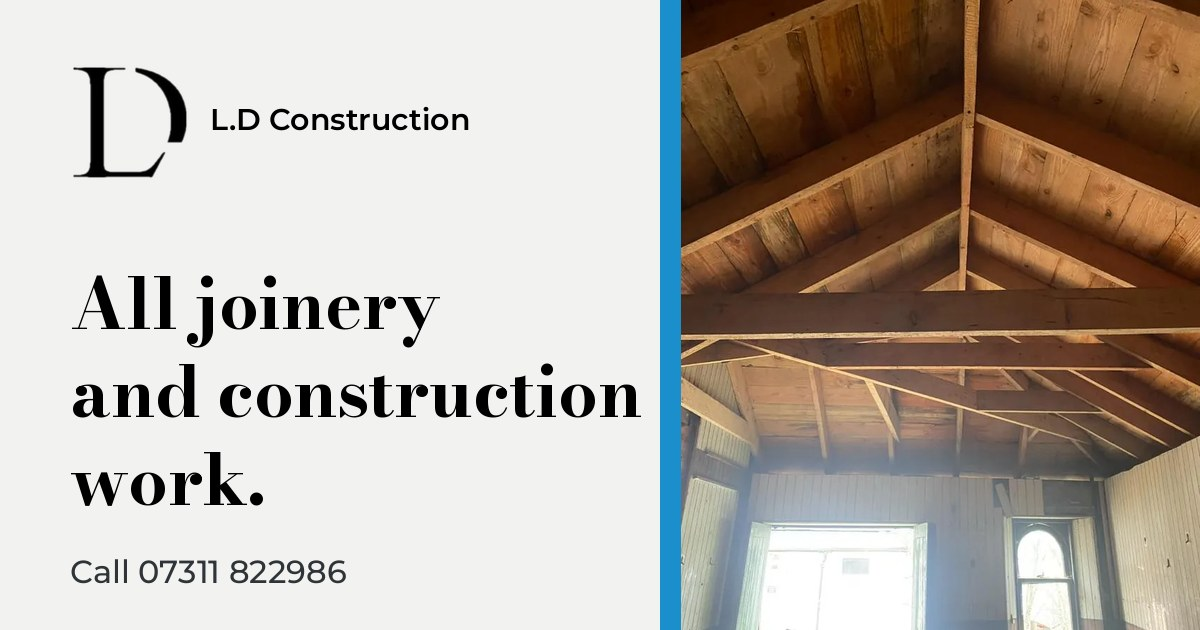
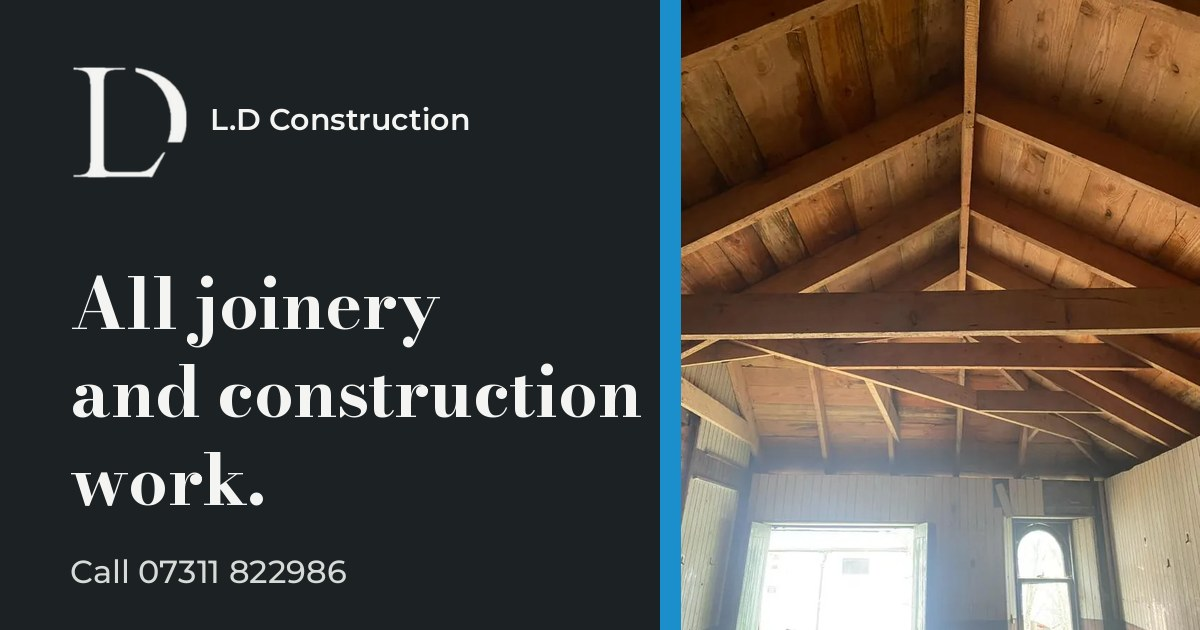
darker

diff --git a/index.html b/index.html
@@ -6,6 +6,7 @@
 <title>L.D Construction | Joinery and construction work</title>
 <meta name="description" content="L.D Construction: joinery and construction work including loft conversions, roofing, oak work, fencing, flooring and excavation. Call 07311 822986.">
 <meta name="robots" content="index, follow">
+<!-- TODO: set the real domain once agreed (canonical, og:url, og:image, sitemap.xml, robots.txt, CNAME) -->
 <link rel="canonical" href="https://ldconstruction.trade/">
 <meta property="og:type" content="website">
 <meta property="og:title" content="L.D Construction | Joinery and construction work">
@@ -14,7 +15,7 @@
 <meta property="og:image" content="https://ldconstruction.trade/assets/og-image.jpg">
 <meta property="og:locale" content="en_GB">
 <meta name="twitter:card" content="summary_large_image">
-<meta name="theme-color" content="#F2F3F0">
+<meta name="theme-color" content="#1C2124">
 <link rel="icon" href="assets/favicon.png" type="image/png">
 <link rel="apple-touch-icon" href="assets/apple-touch-icon.png">
 <link rel="preload" href="assets/fonts/bodoni-moda.woff2" as="font" type="font/woff2" crossorigin>
@@ -29,14 +30,15 @@
 @font-face{font-family:"Montserrat";src:url(assets/fonts/montserrat.woff2) format("woff2");font-weight:100 900;font-style:normal;font-display:swap}
 
 :root{
-  /* palette, taken from the work itself */
-  --chalk:#F2F3F0;      /* plasterboard */
-  --ink:#000;           /* the logo */
-  --slate:#2F3438;      /* roof slate: body text and the dark band */
-  --mute:#5A6267;
-  --line:#CBD0CC;
-  --level:#1B8FCC;      /* the blue spirit level that turns up in the photos */
-  --level-d:#0E6AA0;
+  /* palette, taken from the work itself: roof slate, plasterboard, the blue spirit level */
+  --bg:#1C2124;         /* deep roof slate */
+  --panel:#272D31;      /* lifted slate: photo wells, contact band */
+  --head:#F4F5F2;       /* plasterboard white: headings, buttons */
+  --body:#D6DBD7;       /* body copy */
+  --mute:#A6AFAA;       /* secondary copy */
+  --line:#3C454A;
+  --level:#1B8FCC;      /* the blue spirit level in the photos */
+  --level-d:#6CC1F2;    /* same blue, lightened for text on dark */
   --display:"Bodoni Moda","Didot","Bodoni 72",Georgia,serif;
   --text:"Montserrat",system-ui,-apple-system,"Segoe UI",Roboto,sans-serif;
   --wrap:1180px;
@@ -46,37 +48,37 @@
 }
 *,*::before,*::after{box-sizing:inherit}
 html{scroll-behavior:smooth;scroll-padding-top:1rem;-webkit-text-size-adjust:100%}
-body{margin:0;background:var(--chalk);color:var(--slate);font:400 1.0625rem/1.65 var(--text);-webkit-font-smoothing:antialiased}
+body{margin:0;background:var(--bg);color:var(--body);color-scheme:dark;font:400 1.0625rem/1.65 var(--text);-webkit-font-smoothing:antialiased}
 img{display:block;max-width:100%;height:auto}
 a{color:inherit}
-h1,h2,h3{margin:0;color:var(--ink);font-family:var(--display);font-weight:700;letter-spacing:-.015em;text-wrap:balance;font-optical-sizing:none;font-variation-settings:"opsz" 30}
+h1,h2,h3{margin:0;color:var(--head);font-family:var(--display);font-weight:700;letter-spacing:-.015em;text-wrap:balance;font-optical-sizing:none;font-variation-settings:"opsz" 30}
 p{margin:0}
 :focus-visible{outline:3px solid var(--level);outline-offset:3px}
 .wrap{width:min(100% - 2.5rem,var(--wrap));margin-inline:auto}
-.skip{position:absolute;left:-999px;top:0;background:var(--ink);color:var(--chalk);padding:.75rem 1rem;z-index:100}
+.skip{position:absolute;left:-999px;top:0;background:var(--head);color:var(--bg);padding:.75rem 1rem;z-index:100}
 .skip:focus{left:0}
 
 /* logo mark: the client's own LD monogram, recoloured with a mask */
 .mark{display:inline-block;aspect-ratio:1;background:currentColor;-webkit-mask:url(assets/logo-mark.png) center/contain no-repeat;mask:url(assets/logo-mark.png) center/contain no-repeat}
 
 /* buttons */
-.btn{display:inline-flex;align-items:center;justify-content:center;gap:.6rem;min-height:3.25rem;padding:.8rem 1.6rem;border:2px solid var(--ink);border-radius:2px;font:600 1rem/1.2 var(--text);text-decoration:none;cursor:pointer;background:transparent;color:var(--ink)}
-.btn--solid{background:var(--ink);color:var(--chalk)}
-.btn--solid:hover{background:var(--slate);border-color:var(--slate)}
-.btn--line:hover{background:var(--ink);color:var(--chalk)}
+.btn{display:inline-flex;align-items:center;justify-content:center;gap:.6rem;min-height:3.25rem;padding:.8rem 1.6rem;border:2px solid var(--head);border-radius:2px;font:600 1rem/1.2 var(--text);text-decoration:none;cursor:pointer;background:transparent;color:var(--head)}
+.btn--solid{background:var(--head);color:var(--bg)}
+.btn--solid:hover{background:#fff;border-color:#fff}
+.btn--line:hover{background:var(--head);color:var(--bg)}
 .btn svg{width:1.15em;height:1.15em;flex:none}
 
 /* header */
 .top{display:flex;align-items:center;justify-content:space-between;gap:1rem;padding-block:1.1rem}
-.brand{display:inline-flex;align-items:center;gap:.8rem;text-decoration:none;color:var(--ink);font:600 1rem/1 var(--text)}
+.brand{display:inline-flex;align-items:center;gap:.8rem;text-decoration:none;color:var(--head);font:600 1rem/1 var(--text)}
 .brand .mark{width:2.6rem}
-.top__call{font:600 1rem var(--text);text-decoration:none;color:var(--ink);border-bottom:2px solid var(--ink);padding-bottom:.15rem;display:none}
+.top__call{font:600 1rem var(--text);text-decoration:none;color:var(--head);border-bottom:2px solid var(--head);padding-bottom:.15rem;display:none}
 .top__call:hover{border-color:var(--level)}
 
 /* hero */
 .hero{display:grid;gap:2.5rem;padding-block:clamp(1.5rem,4vw,3rem) clamp(2rem,4vw,3rem);align-items:center}
 .hero h1{font-size:clamp(3rem,9.2vw,6.4rem);line-height:1.03;letter-spacing:-.02em}
-.lede{margin-top:1.6rem;max-width:34rem;font-size:1.15rem;color:var(--slate)}
+.lede{margin-top:1.6rem;max-width:34rem;font-size:1.15rem;color:var(--body)}
 .cta{display:flex;flex-wrap:wrap;gap:.8rem;margin-top:2rem}
 .hero__photo{margin:0}
 .hero__photo img{width:100%;aspect-ratio:3/4;object-fit:cover}
@@ -108,9 +110,9 @@ p{margin:0}
 .job{display:grid;gap:1.4rem;padding-block:2.6rem;border-top:1px solid var(--line)}
 .job h3{font-size:clamp(1.7rem,3.2vw,2.3rem);line-height:1.08}
 .job__text p{margin-top:.8rem;max-width:30rem}
-.more{margin-top:1.2rem;padding:0 0 .15rem;border:0;border-bottom:2px solid var(--ink);background:none;font:600 .95rem var(--text);color:var(--ink);cursor:pointer}
+.more{margin-top:1.2rem;padding:0 0 .15rem;border:0;border-bottom:2px solid var(--head);background:none;font:600 .95rem var(--text);color:var(--head);cursor:pointer}
 .more:hover{border-color:var(--level)}
-.tile,.card{display:block;width:100%;padding:0;border:0;background:#d5d9d4;cursor:zoom-in;overflow:hidden}
+.tile,.card{display:block;width:100%;padding:0;border:0;background:var(--panel);cursor:zoom-in;overflow:hidden}
 .tile img,.card img{width:100%;height:100%;aspect-ratio:3/4;object-fit:cover}
 .job__photos{display:grid;gap:.7rem;grid-template-columns:repeat(2,1fr)}
 .job__photos--lead .tile--big{grid-column:1/-1}
@@ -122,46 +124,42 @@ p{margin:0}
 .stages{list-style:none;margin:0;padding:0;display:grid;grid-auto-flow:column;grid-auto-columns:72%;gap:.8rem;overflow-x:auto;scroll-snap-type:x mandatory;padding-bottom:.6rem}
 .stages li{scroll-snap-align:start;display:flex;flex-direction:column;gap:.35rem}
 .stage__n{font:700 .95rem var(--text);color:var(--level-d)}
-.stage__name{font:700 1.05rem/1.2 var(--text);color:var(--ink);margin-top:.25rem}
+.stage__name{font:700 1.05rem/1.2 var(--text);color:var(--head);margin-top:.25rem}
 .stage__note{font-size:.92rem;color:var(--mute);line-height:1.4}
 
 /* more jobs */
 .cards{list-style:none;margin:0;padding:0;display:grid;gap:2rem .8rem;grid-template-columns:repeat(2,1fr)}
 .cards h3{font:700 1.02rem/1.25 var(--text);letter-spacing:0;margin-top:.8rem}
-.cards p{font-size:.92rem;line-height:1.5;margin-top:.3rem;color:var(--slate)}
+.cards p{font-size:.92rem;line-height:1.5;margin-top:.3rem;color:var(--body)}
 .count{display:block;margin-top:.4rem;font-size:.85rem;color:var(--mute)}
 .card:hover img{filter:brightness(1.06)}
 
 /* services */
 .services{display:grid;gap:2rem}
-.svc{list-style:none;margin:0;padding:0;border-top:2px solid var(--ink)}
-.svc li{display:flex;align-items:baseline;justify-content:space-between;gap:1rem;padding:.9rem 0;border-bottom:1px solid var(--line);font:600 1.15rem var(--text);color:var(--ink)}
+.svc{list-style:none;margin:0;padding:0;border-top:2px solid var(--head)}
+.svc li{display:flex;align-items:baseline;justify-content:space-between;gap:1rem;padding:.9rem 0;border-bottom:1px solid var(--line);font:600 1.15rem var(--text);color:var(--head)}
 .svc a{font:500 .92rem var(--text);color:var(--level-d);text-underline-offset:.2em}
 .note{margin-top:1.4rem;max-width:34rem;color:var(--mute);font-size:.98rem}
 
 /* contact: the only dark band */
-.contact{background:var(--slate);color:var(--chalk);padding-block:clamp(3.5rem,8vw,7rem)}
-.contact h2{color:var(--chalk);font-size:clamp(2.2rem,5vw,3.6rem);line-height:1.02}
-.contact p{margin-top:1rem;max-width:32rem;color:#d7dbd6}
-.phone{display:block;margin-top:1.8rem;font:700 clamp(2.5rem,10vw,6rem)/1.05 var(--display);font-optical-sizing:none;font-variation-settings:"opsz" 30;letter-spacing:-.02em;color:var(--chalk);text-decoration:none}
+.contact{background:var(--panel);color:var(--head);padding-block:clamp(3.5rem,8vw,7rem)}
+.contact h2{color:var(--head);font-size:clamp(2.2rem,5vw,3.6rem);line-height:1.02}
+.contact p{margin-top:1rem;max-width:32rem;color:var(--body)}
+.phone{display:block;margin-top:1.8rem;font:700 clamp(2.5rem,10vw,6rem)/1.05 var(--display);font-optical-sizing:none;font-variation-settings:"opsz" 30;letter-spacing:-.02em;color:var(--head);text-decoration:none}
 .phone:hover{text-decoration:underline;text-decoration-thickness:3px;text-underline-offset:.12em;text-decoration-color:var(--level)}
 .contact .cta{margin-top:2rem}
-.contact .btn{border-color:var(--chalk);color:var(--chalk)}
-.contact .btn--solid{background:var(--chalk);color:var(--ink)}
-.contact .btn--solid:hover{background:#fff;border-color:#fff}
-.contact .btn--line:hover{background:var(--chalk);color:var(--ink)}
 
-.foot{background:var(--chalk);padding-block:2rem 6.5rem;font-size:.9rem;color:var(--mute)}
+.foot{background:var(--bg);padding-block:2rem 6.5rem;font-size:.9rem;color:var(--mute)}
 .foot .wrap{display:flex;flex-wrap:wrap;align-items:center;justify-content:space-between;gap:1rem}
 .foot .brand{font-size:.95rem}
 .foot .brand .mark{width:2rem}
 
 /* mobile call bar */
-.callbar{position:fixed;left:0;right:0;bottom:0;z-index:20;display:grid;grid-template-columns:1fr 1fr;gap:.6rem;padding:.7rem .9rem calc(.7rem + env(safe-area-inset-bottom,0px));background:var(--chalk);border-top:1px solid var(--line)}
+.callbar{position:fixed;left:0;right:0;bottom:0;z-index:20;display:grid;grid-template-columns:1fr 1fr;gap:.6rem;padding:.7rem .9rem calc(.7rem + env(safe-area-inset-bottom,0px));background:var(--bg);border-top:1px solid var(--line)}
 .callbar .btn{min-height:3rem;padding:.6rem 1rem}
 
 /* lightbox */
-dialog.lb{border:0;padding:0;background:transparent;max-width:none;max-height:none;width:100%;height:100%;color:var(--chalk)}
+dialog.lb{border:0;padding:0;background:transparent;max-width:none;max-height:none;width:100%;height:100%;color:var(--head)}
 dialog.lb::backdrop{background:rgba(20,23,25,.985)}
 .lb__in{position:relative;height:100%;display:grid;grid-template-rows:1fr auto;padding:3.5rem .8rem 1rem}
 .lb__stage{min-height:0;display:grid;place-items:center}
@@ -170,7 +168,7 @@ dialog.lb::backdrop{background:rgba(20,23,25,.985)}
 .lb__cap{font-size:.98rem;line-height:1.45}
 .lb__cap b{display:block;font-family:var(--display);font-size:1.25rem;margin-bottom:.15rem}
 .lb__count{white-space:nowrap;font-size:.9rem;color:#c3c9c4}
-.lb button{font:600 1rem var(--text);color:var(--chalk);background:rgba(255,255,255,.12);border:1px solid rgba(255,255,255,.35);border-radius:2px;cursor:pointer;min-width:3rem;min-height:3rem}
+.lb button{font:600 1rem var(--text);color:var(--head);background:rgba(255,255,255,.12);border:1px solid rgba(255,255,255,.35);border-radius:2px;cursor:pointer;min-width:3rem;min-height:3rem}
 .lb button:hover{background:rgba(255,255,255,.24)}
 .lb__x{position:absolute;top:.7rem;right:.8rem}
 .lb__prev,.lb__next{position:absolute;top:50%;margin-top:-1.5rem;font-size:1.4rem!important}

diff --git a/404.html b/404.html
@@ -9,10 +9,10 @@
 <style>
 @font-face{font-family:"Bodoni Moda";src:url(/assets/fonts/bodoni-moda.woff2) format("woff2");font-weight:400 900;font-display:swap}
 @font-face{font-family:"Montserrat";src:url(/assets/fonts/montserrat.woff2) format("woff2");font-weight:100 900;font-display:swap}
-body{margin:0;min-height:100vh;display:grid;place-items:center;background:#F2F3F0;color:#2F3438;font:400 1.0625rem/1.65 "Montserrat",system-ui,sans-serif;padding:1.5rem}
+body{margin:0;min-height:100vh;display:grid;place-items:center;background:#1C2124;color:#D6DBD7;color-scheme:dark;font:400 1.0625rem/1.65 "Montserrat",system-ui,sans-serif;padding:1.5rem}
 main{max-width:30rem}
-h1{margin:0 0 .8rem;font:700 clamp(2.4rem,8vw,4rem)/1.05 "Bodoni Moda",Georgia,serif;font-optical-sizing:none;font-variation-settings:"opsz" 30;color:#000}
-a.btn{display:inline-block;margin-top:1.4rem;padding:.85rem 1.6rem;background:#000;color:#F2F3F0;font-weight:600;text-decoration:none;border-radius:2px}
+h1{margin:0 0 .8rem;font:700 clamp(2.4rem,8vw,4rem)/1.05 "Bodoni Moda",Georgia,serif;font-optical-sizing:none;font-variation-settings:"opsz" 30;color:#F4F5F2}
+a.btn{display:inline-block;margin-top:1.4rem;padding:.85rem 1.6rem;background:#F4F5F2;color:#1C2124;font-weight:600;text-decoration:none;border-radius:2px}
 a.btn:focus-visible{outline:3px solid #1B8FCC;outline-offset:3px}
 p a{color:inherit}
 </style>

diff --git a/CLAUDE.md b/CLAUDE.md
@@ -24,8 +24,8 @@ robots.txt, sitemap.xml, _config.yml, EDITS.md, CLAUDE.md, README.md
 `_config.yml` stops CLAUDE.md, README.md, EDITS.md and docs/ being published.
 
 ## Design (keep it consistent)
-- **Idea:** let the work do the talking. Light, plain page; real site photos; one memorable moment (the spirit level in the hero that settles on load).
-- **Palette (from the work itself):** chalk `#F2F3F0` (plasterboard) · ink `#000` (the logo) · slate `#2F3438` (roof slate, body text, contact band) · mute `#5A6267` · line `#CBD0CC` · level blue `#1B8FCC` (the blue spirit level in the photos; only for the level graphic, focus rings and small link accents; use `#0E6AA0` for blue text).
+- **Idea:** let the work do the talking. Dark, plain page; real site photos; one memorable moment (the spirit level in the hero that settles on load).
+- **Palette (dark, from the work itself):** bg `#1C2124` (roof slate) · panel `#272D31` (photo wells, contact band) · head `#F4F5F2` (plasterboard white: headings, buttons, logo) · body `#D6DBD7` · mute `#A6AFAA` · line `#3C454A` · level blue `#1B8FCC` (the blue spirit level in the photos; only for the level graphic and focus rings) and `#6CC1F2` for blue text/links. All text passes WCAG AAA (7:1) on bg and panel. Client asked for dark background with light text (28 Oct 2026): do not return to a white page.
 - **Type:** Bodoni Moda (headings, echoes the monogram) with `font-variation-settings:"opsz" 30` so hairlines stay visible at large sizes. Montserrat for everything else (it is the typeface on their logo sheet).
 - **No** all-caps labels, eyebrow text, stock icons, gradients (except the level graphic), testimonial cards or scroll animations.
 - Sentence case, plain British English, no hype.
